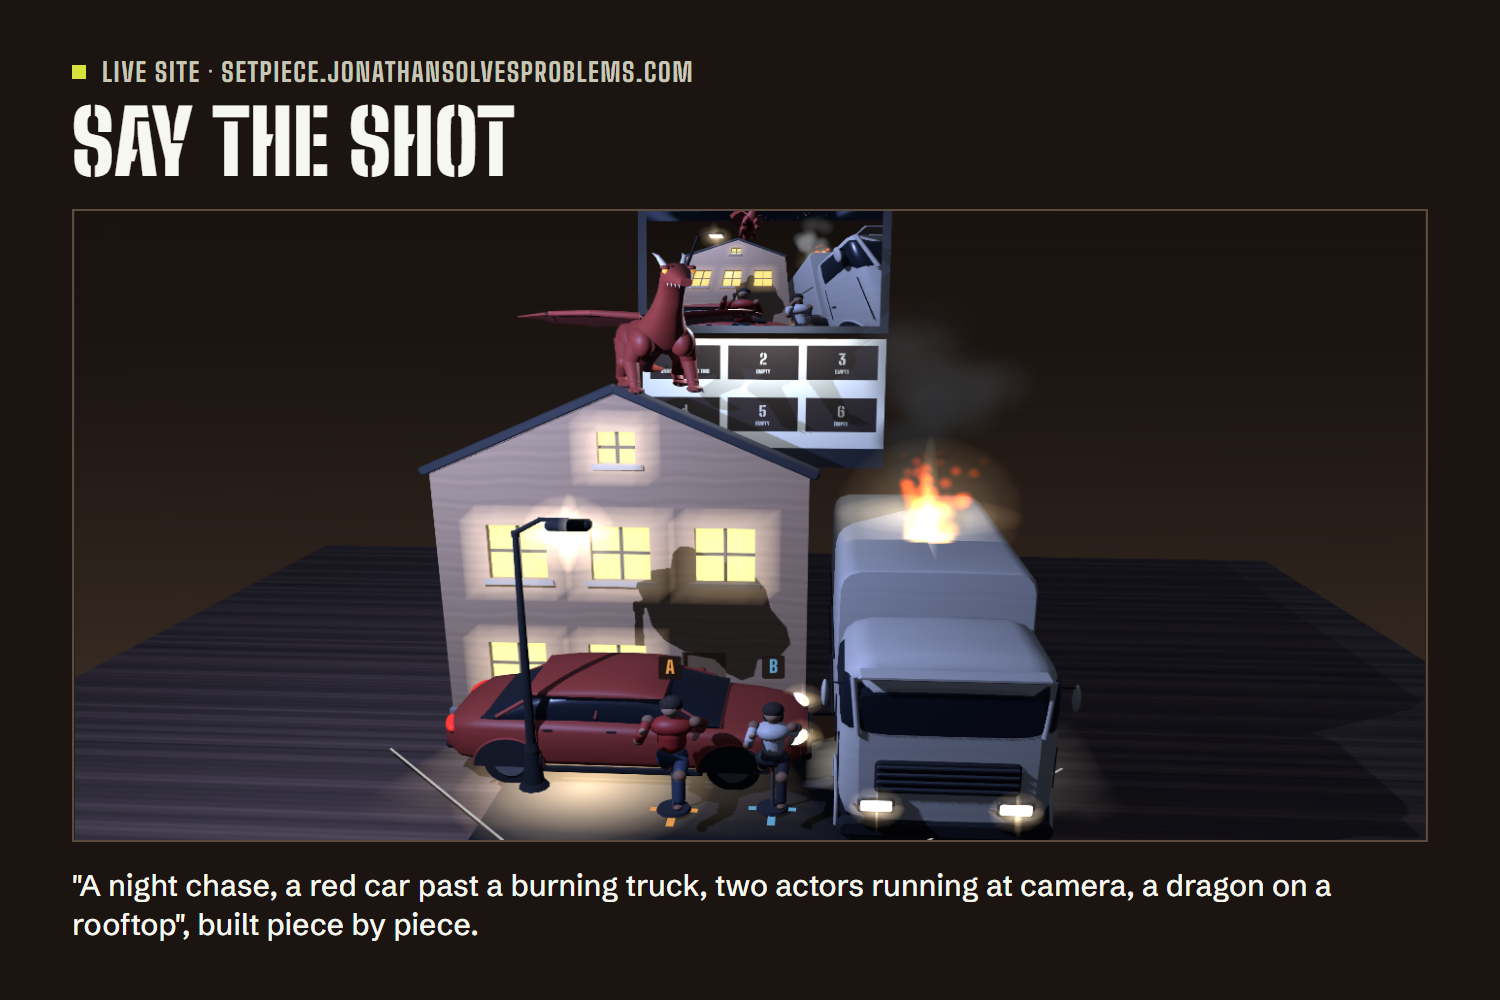
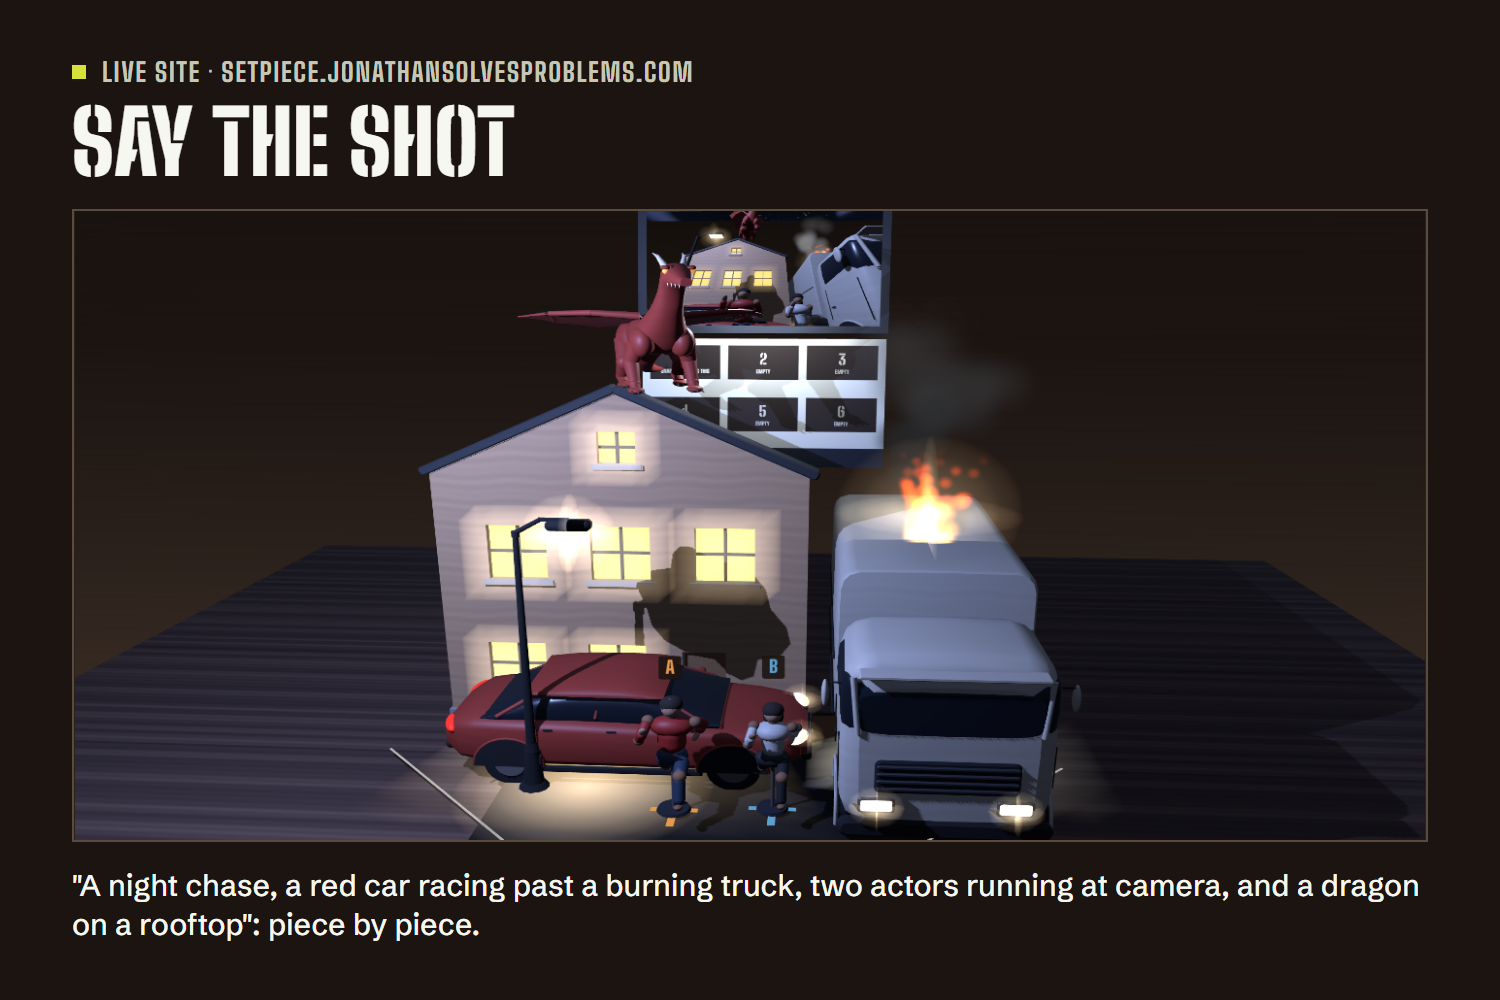
After a second cold read: hands first with a controller working if held, said the same way in the README, the form and the gallery, and controllers listed as not yet run on the headset; what has been seen of walking inside the set (the beam and ring) and what has not (the pinch that walks); captions

Changed region(s): [[0.0613, 0.868, 0.9507, 0.961]]

diff --git a/tools/gallery.py b/tools/gallery.py
@@ -92,9 +92,9 @@ LIVE_BADGE = 'Live site · setpiece.jonathansolvesproblems.com' if 'GALLERY_BASE
 # recipe run on the deployed page, or a result rendered as text.
 SLIDES = [
     dict(slug='castle', badge=QUEST_18, headline='The shot, on your table', picture='captures/quest-castle-on-table.jpg',
-         caption='Asked for a knight charging a castle, then two knights fighting, then rain. A 1:10 set on the real table, the fight playing.'),
+         caption='In the headset I asked for a knight charging a castle, then two more fighting at its gate. A 1:10 set on my real table.'),
     dict(slug='evolve', badge=QUEST_18, headline='One scene, four sentences', picture='captures/quest-evolution.jpg',
-         caption='Said in the headset, one after another. Each change lands in seconds and leaves the rest of the set as it was.'),
+         caption='Four sentences, said in the headset one after another. Each one changes the set that is standing, in a few seconds.'),
     dict(slug='rider', badge=QUEST_18, headline='By hand', picture='captures/quest-rider-in-hand.jpg',
          caption='A hand on the dragon, its rider seated on its back. Pinch a piece or close a fist on it. Controllers work too.'),
     dict(slug='inside', badge=QUEST_18, headline='Step inside', picture='captures/quest-inside-castle.jpg',
@@ -102,7 +102,7 @@ SLIDES = [
     dict(slug='lens', badge=QUEST_18, headline='It checks its own frame', picture='captures/quest-through-the-lens.jpg',
          caption='In the headset: the set built, it looked through its own camera, moved it back and wider to hold horse and gate, and said so.'),
     dict(slug='say', badge=LIVE_BADGE, headline='Say the shot', picture=('live', 'designer'),
-         caption='"A night chase, a red car past a burning truck, two actors running at camera, a dragon on a rooftop", built piece by piece.'),
+         caption='"A night chase, a red car racing past a burning truck, two actors running at camera, and a dragon on a rooftop": piece by piece.'),
     dict(slug='table', badge=QUEST_17, headline='The shot, on your table', picture='captures/quest-aircraft-on-table.jpg',
          caption='Asked for workers building an aircraft, then for a ladder with a worker on its roof. A 1:10 set on the real table, its sky behind it.'),
     dict(slug='made', badge=LIVE_BADGE, headline='It makes what the library lacks', picture=('live', 'castle'),

diff --git a/devpost/submission.md b/devpost/submission.md
@@ -11,7 +11,7 @@ Setpiece | An AI film set that builds on your table
 ## Tagline
 
 ```
-For filmmakers: say the shot, a miniature set starts building on your table about two seconds later. Block it by hand, keep the storyboard.
+For filmmakers: say a shot and a miniature set starts building on your table about two seconds later. Move it by hand, keep the storyboard.
 ```
 
 ## Track
@@ -29,7 +29,7 @@ New Experience
 ## Description
 
 ```
-About ten years ago I made short VFX films for YouTube: lightning in a field, a creature floating next to me in the woods. Every effect went in on a computer weeks after the shoot. On the day I was framing the shot around empty air, with nothing for the actor to look at.
+About ten years ago I made short VFX films and put them online: lightning in a back yard, a creature floating next to me in the woods. Every effect went in on a computer weeks after the shoot. On the day I was framing the shot around empty air, with nothing for the actor to look at.
 
 Setpiece is a miniature film set on your real table, for the storyboard pass a director does before a shoot day. You say the shot out loud, an AI set designer builds it at one-tenth scale, and you move the actors and the camera with your hands. You leave with a six-frame storyboard and a shot list (a spreadsheet with the lens and camera height of every shot) to send to the crew.
 
@@ -51,7 +51,7 @@ Immersive Web SDK in the Quest Browser, in passthrough: the set lands where you 
 
 Two sentences spoken in my own words (Nov 15 and 16): the first piece was on the table 1.6 s after the recogniser had my last word, both times, and the whole set stood at 3.3 s and 3.7 s. Bigger sets on Nov 17 took 4 to 7 s. On Nov 14, with both hands tracked and the designer's replies replayed, its sets ran at 87 to 89 frames a second standing and 71 to 83 with a piece moving. Going through it as a first visit on the live site (Nov 16), my own spoken shot was a frame on the board 53 seconds after I pressed Enter XR (68 on an earlier run that day). On Nov 17, Shoot coverage planned six shots and had all six on the board 25 seconds after I pressed it.
 
-Limits. Not yet run on the headset, only in its emulator: walking the full-size set by pointing, a board's tab bringing its set back as well as its frames, a saved board's picture downloading when the session ends, sizing with two hands, the lens and camera words ("eighty five", "wider"), rolling vehicles, and building without the designer. One room, mine. On the evening of Nov 17 into the 18th the heaviest sets (rain, fire, a dragon, four actors fighting) ran at 52 to 61 frames a second on the table with the headset's screen recorder running, and 76 at full size. I have not measured them with the recorder off.
+Limits. Not yet run on the headset, only in its emulator: walking the full-size set (pointing shows its beam and ring on the headset; the pinch that walks you there has not been tried on it), a controller in place of a hand, a board's tab bringing its set back as well as its frames, a saved board's picture downloading when the session ends, sizing with two hands, the lens and camera words ("eighty five", "wider"), rolling vehicles, and building without the designer. One room, mine. On Nov 17 and the night after, the heaviest sets (rain, fire, a dragon, four actors fighting) ran at 52 to 61 frames a second on the table with the headset's screen recorder running, and 76 at full size. I have not measured them with the recorder off.
 
 ## What's next
 
@@ -61,7 +61,7 @@ Two people around the same set, a director and a camera operator each with a hea
 ## Hand interactions, and what excites me about VR
 
 ```
-Everything is done with hands. Reach out and pinch a piece, or close your fist on it, and it comes with you. Point and pinch for anything further away. A pinch held on the striped edge moves the whole set. Twisting your wrist turns what you're holding, and tilts the camera. I measured my own hand to set where a fist starts, because the first version only worked if you pointed in a straight line and pinched, and my hand kept trying to just grab the thing. Held actors squirm a little in your fingers, and you can turn that off.
+Everything can be done with your hands, and a controller's trigger and grip do the same if you hold one. Reach out and pinch a piece, or close your fist on it, and it comes with you. Point and pinch for anything further away. A pinch held on the striped edge moves the whole set. Twisting your wrist turns what you're holding, and tilts the camera. I measured my own hand to set where a fist starts, because the first version only worked if you pointed in a straight line and pinched, and my hand kept trying to just grab the thing. Held actors squirm a little in your fingers, and you can turn that off.
 
 A newcomer is walked through once: the designer says each step out loud and a small arrow points at the button or the piece, and it can be skipped. At full size, you point at the floor and pinch to walk there, and turn with two buttons on the panel, without standing up.
 ```

diff --git a/README.md b/README.md
@@ -4,7 +4,7 @@ Say the shot, and a 1:10 film set builds itself on your kitchen table, piece by 
 
 Live: https://setpiece.jonathansolvesproblems.com
 
-Built for the Meta VR Start Developer Competition 2026, Productivity track, New Experience. Hands only, seated, no controller needed.
+Built for the Meta VR Start Developer Competition 2026, Productivity track, New Experience. Hands first, seated: no controller is needed, and one works if you hold it.
 
 ## How to run it
 
@@ -66,14 +66,14 @@ For the frame rate: the monitor's second view of the set is drawn only on frames
 
 - **Seen on a Quest 3S, hands only.** Landing the set by pointing, in a room with no scan. Picking up, carrying and turning pieces, and snapping frames. Sets built from sentences spoken in my own words on the live site, with the replies read aloud, the first piece 1.6 s after the last word (`devpost/results/quest-voice-designer.json`). The newcomer walkthrough, from landing to the first frame (Nov 16). Stepping inside under the painted skies, at 86 to 89 frames a second on the live site (Nov 16). Shoot coverage: six shots planned and on the board in 25 seconds, the scene's sky behind the set on the table, and a board's tab bringing its frames back (Nov 17, `devpost/results/quest-coverage-and-world.json`).
 - **Frame rate on the headset.** With both hands tracked, the designer's sets ran at 87 to 89 frames a second standing and 71 to 83 with a piece moving (Nov 14, replies replayed on the development server, `devpost/results/quest-frame-time-designer.json`). A set of 24 things ran at 63 to 64, so a reply holds 20 at most. On Nov 17, with the headset's own recorder running (it costs about ten), lighter sets averaged 64 to 75 and the heaviest of the day (17 pieces, four effects) 52 to 61; that set has not been measured again with the recorder off.
-- **In the emulator only.** Walking the full-size set by pointing, a board's tab bringing its set back as well as its frames, a saved board's picture downloading when the session ends, sizing with two hands, the lens and camera words ("eighty five", "wider"), rolling vehicles, and building without the designer. The board and shot list have been saved from the desktop page.
+- **In the emulator only.** Walking the full-size set (pointing shows its beam and ring on the headset; the pinch that walks you there has not been tried on it), a controller in place of a hand, a board's tab bringing its set back as well as its frames, a saved board's picture downloading when the session ends, sizing with two hands, the lens and camera words ("eighty five", "wider"), rolling vehicles, and building without the designer. The board and shot list have been saved from the desktop page.
 - **Not measured.** Anchors across a relaunch, the frame rate while a take plays, and any room but mine.
 
 The dated record behind each line is in [docs/where-this-stands.md](docs/where-this-stands.md).
 
 ## Type, art and sound
 
-Big Shoulders Stencil by Patric King and Schibsted Grotesk by Schibsted, both under the SIL Open Font License (`public/ui/fonts/OFL.txt`). The chalk drawings were generated on my own machine from a written art direction and keyed by hand; the mark, the wordmark and every number were set, not generated. The fifteen sounds (the clap, a piece lifted, a piece set down, a big piece set down, the slate landing, a tick for each panel press, the rush of air as the set grows around you, two notes as the microphone opens and closes, the loops that rain, fire, wind and water play from where they stand on the set, and the crickets of a night set heard once you are inside it) are synthesised by `tools/make-audio.mjs` from sine partials and filtered noise; nothing is sampled. The designer's voice is two of ElevenLabs' stock voices: its replies are read as they are written, and its twelve fixed lines were recorded once with the same voices and settings.
+Big Shoulders Stencil by Patric King and Schibsted Grotesk by Schibsted, both under the SIL Open Font License (`public/ui/fonts/OFL.txt`). The chalk drawings were generated on my own machine from a written art direction and keyed by hand; the mark, the wordmark and every number were set, not generated. The fifteen sounds (the clap, a piece lifted, a piece set down, a big piece set down, the slate landing, a tick for each panel press, the rush of air as the set grows around you, two notes as the microphone opens and closes, footsteps as you walk inside it, the loops that rain, fire, wind and water play from where they stand on the set, and the crickets of a night set heard once you are inside it) are synthesised by `tools/make-audio.mjs` from sine partials and filtered noise; nothing is sampled. The designer's voice is two of ElevenLabs' stock voices: its replies are read as they are written, and its twelve fixed lines were recorded once with the same voices and settings.
 
 ## Licence
 

diff --git a/devpost/gallery/captions.md b/devpost/gallery/captions.md
@@ -5,19 +5,19 @@ One block per image, in gallery order. Paste the block, nothing else.
 ## 01 castle
 
 ```
-Asked for a knight charging a castle, then two knights fighting, then rain. A 1:10 set on the real table, the fight playing.
+In the headset I asked for a knight charging a castle, then two more fighting at its gate. A 1:10 set on my real table.
 ```
 
 ## 02 say
 
 ```
-"A night chase, a red car past a burning truck, two actors running at camera, a dragon on a rooftop", built piece by piece.
+"A night chase, a red car racing past a burning truck, two actors running at camera, and a dragon on a rooftop": piece by piece.
 ```
 
 ## 03 evolve
 
 ```
-Said in the headset, one after another. Each change lands in seconds and leaves the rest of the set as it was.
+Four sentences, said in the headset one after another. Each one changes the set that is standing, in a few seconds.
 ```
 
 ## 04 lens
